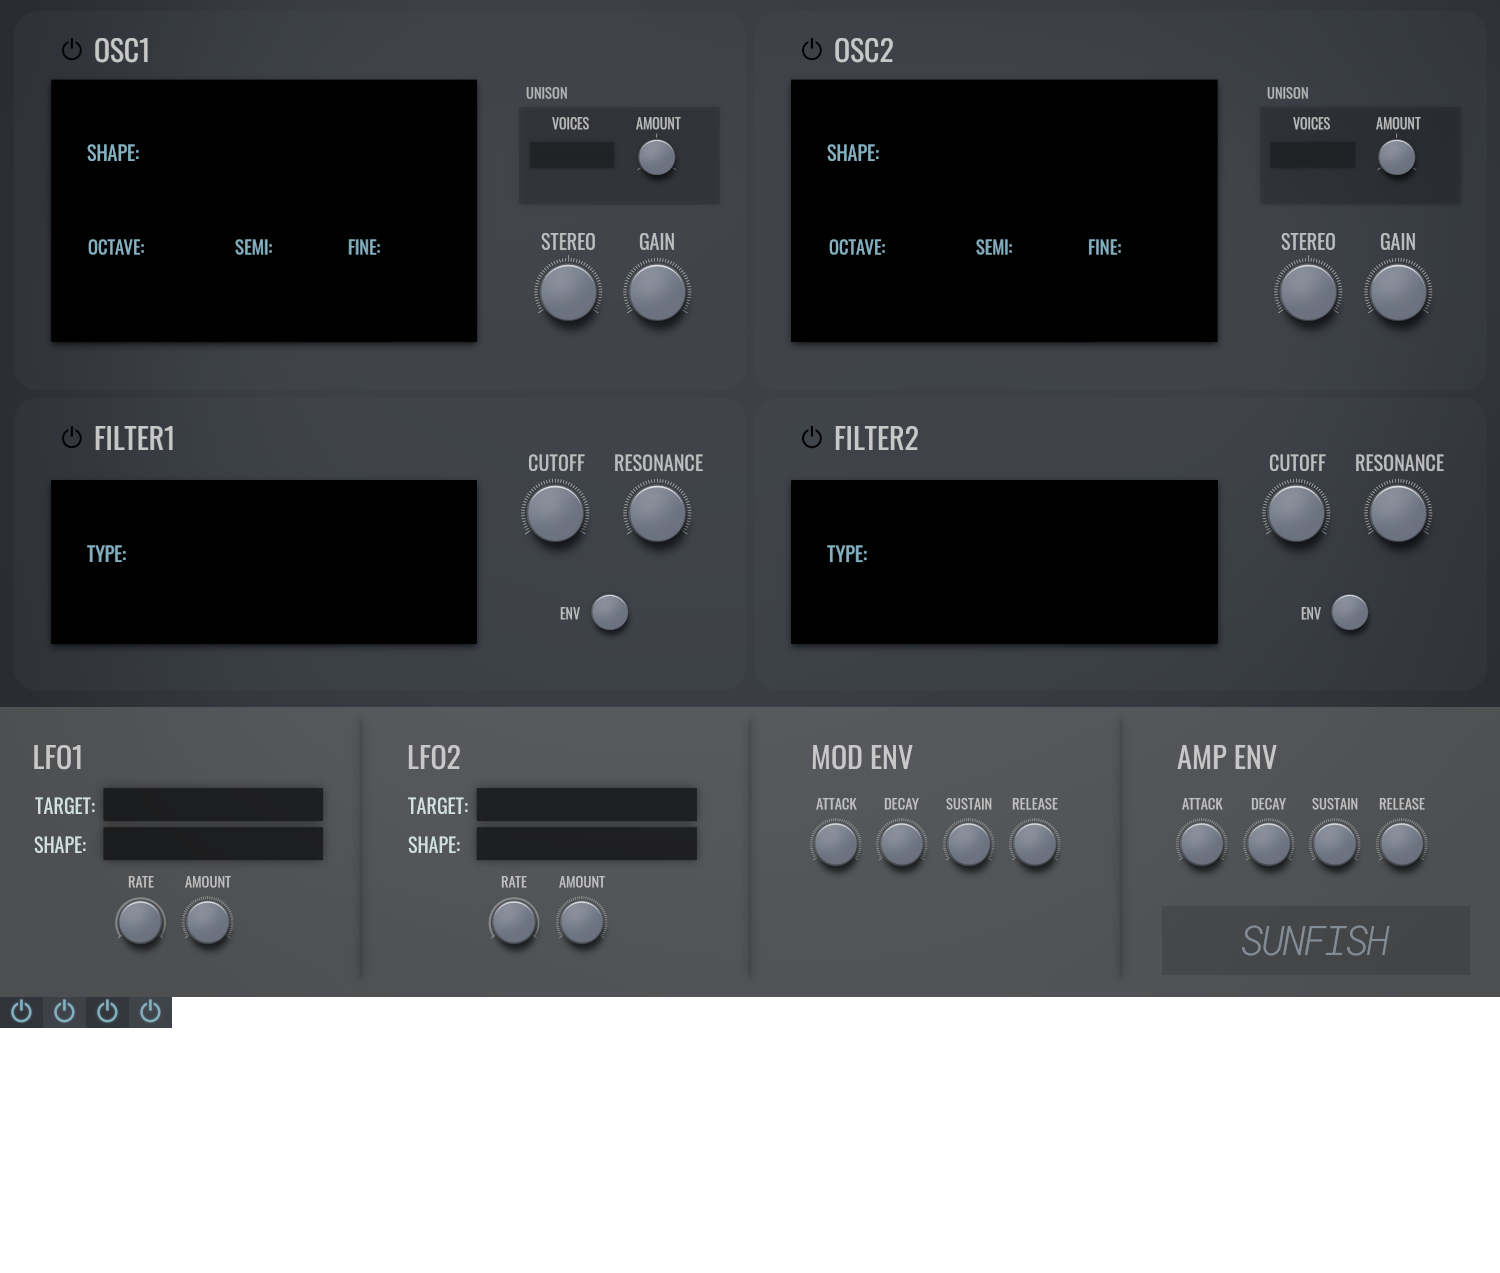
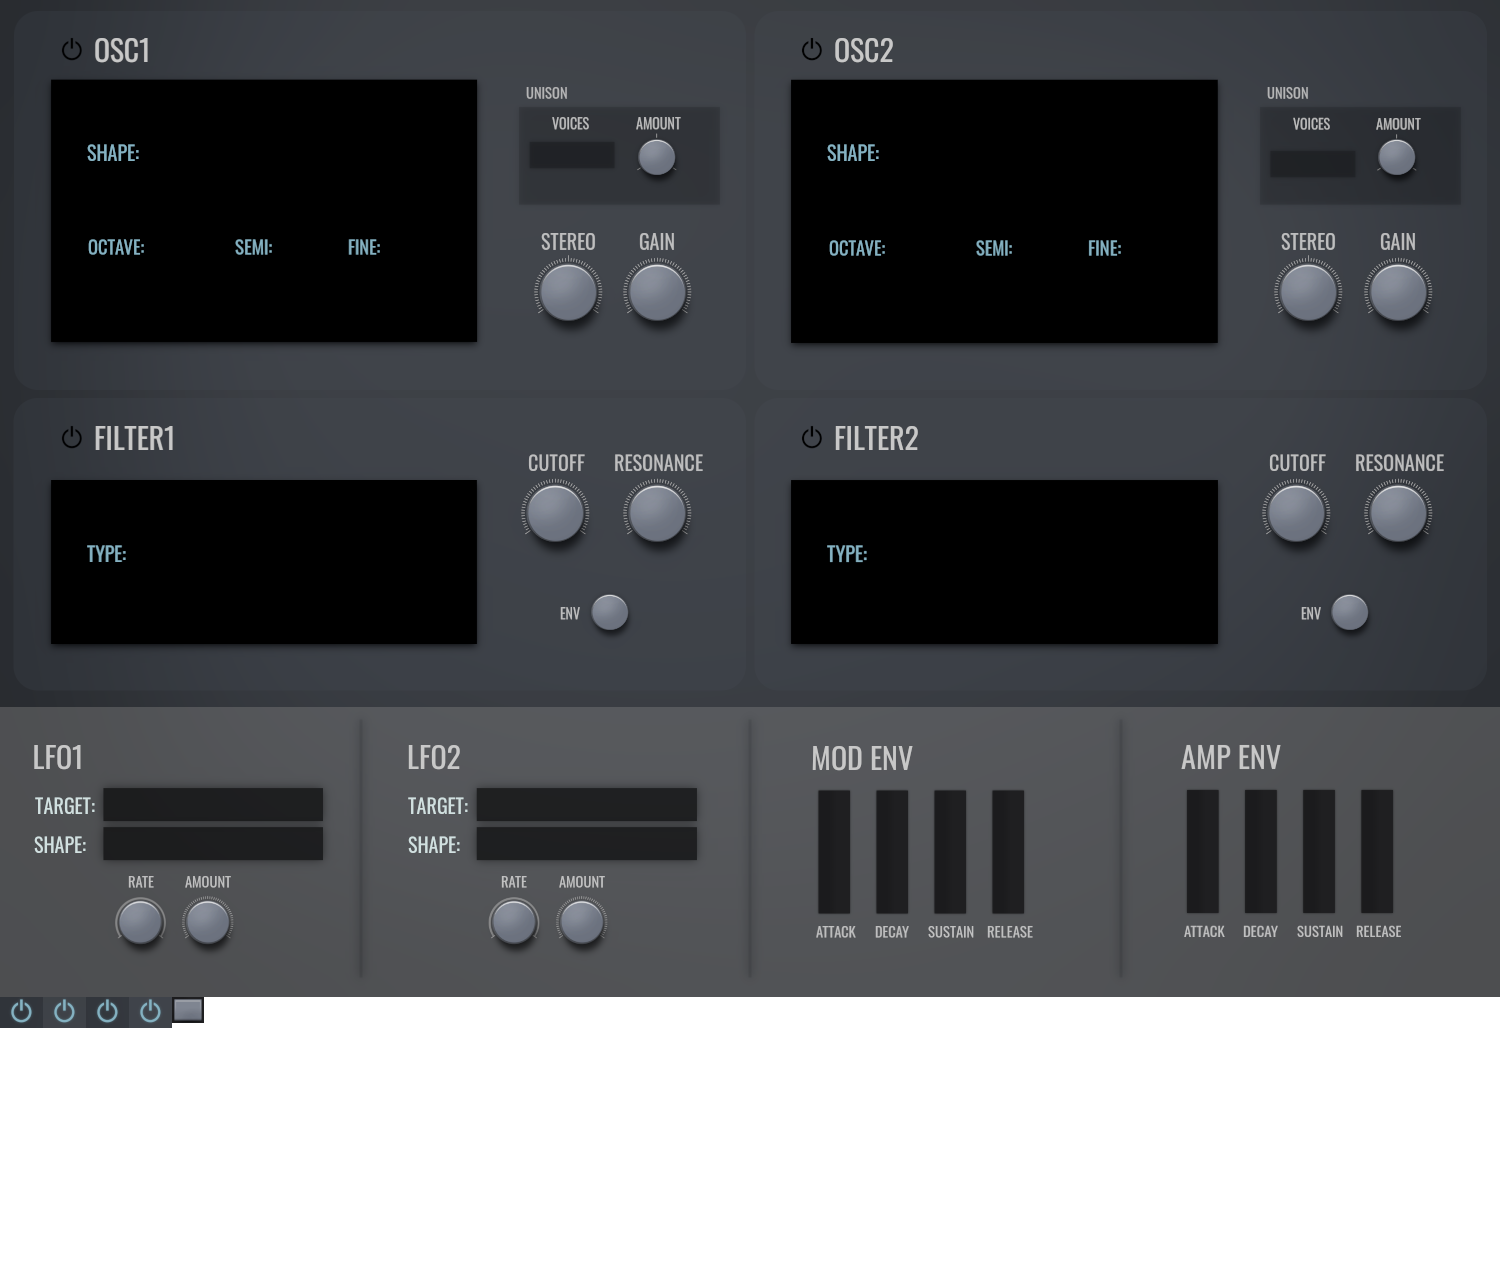
Add thumb sprite support and replace ADSR knobs with sliders (#27)
Add a graphical thumb and vertical sliders for ADSR parameters.

diff --git a/sunfish-core/src/ui/widgets.rs b/sunfish-core/src/ui/widgets.rs
@@ -17,6 +17,11 @@ const DEFAULT_TEXT_COLOR: Color = Color {
     b: 0.0,
 };
 
+const KNOB_DEBUG_OUTLINE: bool = false;
+const KNOB_DEBUG_OUTLINE_COLOR: [f32; 3] = [1.0, 0.0, 0.0];
+const VSLIDER_DEBUG_OUTLINE: bool = false;
+const VSLIDER_DEBUG_OUTLINE_COLOR: [f32; 3] = [1.0, 0.0, 0.0];
+
 #[allow(dead_code)]
 const TOGGLE_OUTLINE_COLOR: [f32; 3] = [1.0, 0.0, 0.0];
 
@@ -107,7 +112,7 @@ impl Widget {
         match &self.wt {
             WidgetClass::Knob(knob) => knob.apply_to_texts(f),
             WidgetClass::Spinner(spinner) => spinner.apply_to_texts(f),
-            WidgetClass::VSlider(_vslider) => { /* TODO */ }
+            WidgetClass::VSlider(vslider) => vslider.apply_to_texts(f),
             WidgetClass::Panel(_panel) => { /* TODO */ }
             WidgetClass::Toggle(toggle) => toggle.apply_to_texts(f),
         }
@@ -263,8 +268,6 @@ pub enum WidgetClass {
     Toggle(Toggle),
 }
 
-const KNOB_DEBUG_OUTLINE: bool = false;
-const KNOB_DEBUG_OUTLINE_COLOR: [f32; 3] = [1.0, 0.0, 0.0];
 const KNOB_OUTLINE_WIDTH: f32 = 0.001;
 const KNOB_ARC_WIDTH: f32 = 0.001;
 
@@ -534,27 +537,50 @@ impl Knob {
     }
 }
 
-const VSLIDER_OUTLINE_COLOR: [f32; 3] = [1.0, 1.0, 1.0];
-
 #[derive(Debug)]
 pub struct VSlider {
     outer_shape_index: ShapeIndex,
     thumb_index: ShapeIndex,
     thumb_size: Coord2,
+    sprite_info: Option<VSliderSprite>,
+    thumb_sprite_index: Option<SpriteIndex>,
+    value_text: Text,
+    value_text_color: Color,
+}
+
+#[derive(Clone, Debug, Deserialize)]
+pub struct VSliderSprite {
+    active: Rect,
 }
 
 impl VSlider {
     #[allow(clippy::new_without_default)]
-    pub fn new() -> Self {
+    pub fn new(
+        sprite_info: Option<VSliderSprite>,
+        value_text: Text,
+        value_text_color: Color,
+    ) -> Self {
         VSlider {
             outer_shape_index: ShapeIndex(0),
             thumb_index: ShapeIndex(0),
             thumb_size: Coord2::new(0.02, 0.02),
+            sprite_info,
+            thumb_sprite_index: None,
+            value_text,
+            value_text_color,
         }
     }
 
-    pub fn new_widget(meta: Arc<ParamsMeta>, id: WidgetId, rect: Rect, value: f64) -> Widget {
-        let vslider = Self::new();
+    pub fn new_widget(
+        meta: Arc<ParamsMeta>,
+        id: WidgetId,
+        rect: Rect,
+        value: f64,
+        sprite_info: Option<VSliderSprite>,
+        value_text: Text,
+        value_text_color: Color,
+    ) -> Widget {
+        let vslider = Self::new(sprite_info, value_text, value_text_color);
         Widget::new(meta, id, rect, value, WidgetClass::VSlider(vslider))
     }
 
@@ -563,36 +589,51 @@ impl VSlider {
         rect: &Rect,
         screen_metrics: &shapes::ScreenMetrics,
         value: f64,
-        _spritesheet: &mut sprites::SpriteSheet,
+        spritesheet: &mut sprites::SpriteSheet,
         shapes: &mut shapes::Shapes,
     ) {
-        let buffers =
-            shapes::rectangle_outline(rect, screen_metrics, 0.001, &VSLIDER_OUTLINE_COLOR);
-        let max_v_count = buffers.vertices.len();
-        let max_i_count = buffers.indices.len();
-        let outer_shape_index =
-            shapes.add(shapes::Shape::from_lyon(buffers, max_v_count, max_i_count));
+        if VSLIDER_DEBUG_OUTLINE {
+            let buffers = shapes::rectangle_outline(
+                rect,
+                screen_metrics,
+                0.001,
+                &VSLIDER_DEBUG_OUTLINE_COLOR,
+            );
+            let max_v_count = buffers.vertices.len();
+            let max_i_count = buffers.indices.len();
+            let outer_shape_index =
+                shapes.add(shapes::Shape::from_lyon(buffers, max_v_count, max_i_count));
+            self.outer_shape_index = ShapeIndex(outer_shape_index);
+        }
+        let thumb_rect = Self::thumb_rect(rect, &self.thumb_size, value);
+        if let Some(sprite_info) = &self.sprite_info {
+            self.thumb_sprite_index = Some(SpriteIndex(spritesheet.add(sprites::Sprite {
+                pos: UserVec2::Rel(Vec2 {
+                    pos: [thumb_rect.pos[0], thumb_rect.pos[1]],
+                }),
+                size: UserVec2::Rel(Vec2 {
+                    pos: thumb_rect.size(),
+                }),
+                src_px: sprites::SpriteSource {
+                    src_rect: sprite_info.active.pos,
+                },
+            })));
+        } else {
+            // TODO: Value computation
+            let buffers = shapes::rectangle_solid(&thumb_rect, screen_metrics);
+            let max_v_count = buffers.vertices.len();
+            let max_i_count = buffers.indices.len();
+            let thumb_index =
+                shapes.add(shapes::Shape::from_lyon(buffers, max_v_count, max_i_count));
 
-        // TODO: Value computation
-        let buffers = Self::create_thumb(rect, screen_metrics, &self.thumb_size, value);
-        let max_v_count = buffers.vertices.len();
-        let max_i_count = buffers.indices.len();
-        let thumb_index = shapes.add(shapes::Shape::from_lyon(buffers, max_v_count, max_i_count));
-
-        self.outer_shape_index = ShapeIndex(outer_shape_index);
-        self.thumb_index = ShapeIndex(thumb_index);
+            self.thumb_index = ShapeIndex(thumb_index);
+        }
     }
 
-    fn create_thumb(
-        rect: &Rect,
-        screen_metrics: &shapes::ScreenMetrics,
-        thumb_size: &Coord2,
-        value: f64,
-    ) -> shapes::Buffers {
+    fn thumb_rect(rect: &Rect, thumb_size: &Coord2, value: f64) -> Rect {
         let thumb_dist = rect.height() - thumb_size.y;
         let thumb_top = ((1.0 - value as f32) * thumb_dist) + rect.y1();
-        let thumb_rect = Rect::new(rect.x1(), thumb_top, rect.x2(), thumb_top + thumb_size.y);
-        shapes::rectangle_solid(&thumb_rect, screen_metrics)
+        Rect::new(rect.x1(), thumb_top, rect.x2(), thumb_top + thumb_size.y)
     }
 
     #[inline(always)]
@@ -613,20 +654,48 @@ impl VSlider {
     }
 
     fn update(&mut self, ctx: &mut UpdateContext, value: f64) {
-        let buf = Self::create_thumb(ctx.rect, ctx.screen_metrics, &self.thumb_size, value);
-        ctx.shapes
-            .update(self.thumb_index.0, &buf.vertices, &buf.indices);
+        let thumb_rect = Self::thumb_rect(ctx.rect, &self.thumb_size, value);
+        if self.sprite_info.is_some() {
+            ctx.spritesheet.update_sprite(
+                self.thumb_sprite_index.unwrap().0,
+                &sprites::SpriteUpdate {
+                    pos: Some(UserVec2::Rel(Vec2 {
+                        pos: [thumb_rect.pos[0], thumb_rect.pos[1]],
+                    })),
+                    ..Default::default()
+                },
+            );
+        } else {
+            let buf = shapes::rectangle_solid(&thumb_rect, ctx.screen_metrics);
+            ctx.shapes
+                .update(self.thumb_index.0, &buf.vertices, &buf.indices);
+        }
+
+        // Update value label.
+        if let WidgetId::Bound { eparam } = ctx.id {
+            self.value_text.value = ctx.params.formatted_value(*eparam);
+        }
     }
 
     fn on_resize(&mut self, ctx: &mut UpdateContext, value: f64) {
         self.update(ctx, value);
-        let buffers =
-            shapes::rectangle_outline(ctx.rect, ctx.screen_metrics, 0.001, &VSLIDER_OUTLINE_COLOR);
-        ctx.shapes.update(
-            self.outer_shape_index.0,
-            &buffers.vertices,
-            &buffers.indices,
-        );
+        if VSLIDER_DEBUG_OUTLINE {
+            let buffers = shapes::rectangle_outline(
+                ctx.rect,
+                ctx.screen_metrics,
+                0.001,
+                &VSLIDER_DEBUG_OUTLINE_COLOR,
+            );
+            ctx.shapes.update(
+                self.outer_shape_index.0,
+                &buffers.vertices,
+                &buffers.indices,
+            );
+        }
+    }
+
+    pub fn apply_to_texts<F: FnMut(&Text, &Color)>(&self, mut f: F) {
+        f(&self.value_text, &self.value_text_color);
     }
 }
 

diff --git a/assets/skin_generator/skin_generator.py b/assets/skin_generator/skin_generator.py
@@ -37,6 +37,9 @@ KN_VALUE_FONT_SCALE = 0.013
 KN_VALUE_COLOR = "Color(r: 0.30039, g: 0.30039, b: 0.3019)"
 KN_DEF_VALUE_POS = "Below(offset_relative: Some(0.006))"
 
+# Sliders
+SL_DEF_VALUE_POS = "Below(offset_relative: Some(0.019))"
+
 BACKGROUND_UNSCALED = (40, 50, 64)
 
 BACKGROUND_COLOR = (float(c) / 256.0 for c in BACKGROUND_UNSCALED)
@@ -287,11 +290,13 @@ def create_lfo_panel(screen: ScreenMetrics, out: TextIO, lfo: int) -> None:
 
 
 def create_adsr_panel(screen: ScreenMetrics, out: TextIO, adsr: int) -> None:
-    x_offset = 367 * (adsr - 1)
-    attack_rect = Rect.from_offset(x_offset + 813, 822, 45, 45)
-    decay_rect = Rect.from_offset(x_offset + 880, 822, 45, 45)
-    sustain_rect = Rect.from_offset(x_offset + 946, 822, 45, 45)
-    release_rect = Rect.from_offset(x_offset + 1013, 822, 45, 45)
+    x_offset = 369 * (adsr - 1)
+    attack_rect = Rect.from_offset(x_offset + 818, 790, 32, 123)
+    decay_rect = Rect.from_offset(x_offset + 876, 790, 32, 123)
+    sustain_rect = Rect.from_offset(x_offset + 934, 790, 32, 123)
+    release_rect = Rect.from_offset(x_offset + 992, 790, 32, 123)
+
+    thumb_sprite = Rect.from_offset(172, 997, 32, 26)
 
     name = "Mod" if adsr == 1 else "Amp"
 
@@ -302,40 +307,32 @@ def create_adsr_panel(screen: ScreenMetrics, out: TextIO, adsr: int) -> None:
     out.write(
         f"""
             // ADSR {name} Panel
-            Knob(
+            VSlider(
                 widget_id: Bound(eparam: {name}Env(Attack)),
                 rect: {emit(attack_rect)},
-                arc_color: {KN_STD_ARC_COLOR},
-                notch_color: {KN_LIGHT_NOTCH_COLOR},
-                label: None,
-                value_text: Text(pos: {KN_DEF_VALUE_POS}, value: "", scale: {KN_VALUE_FONT_SCALE}),
+                sprite: Some(VSliderSprite(active: {thumb_sprite.to_str()})),
+                value_text: Text(pos: {SL_DEF_VALUE_POS}, value: "", scale: {KN_VALUE_FONT_SCALE}),
                 value_text_color: {KN_VALUE_COLOR},
             ),
-            Knob(
+            VSlider(
                 widget_id: Bound(eparam: {name}Env(Decay)),
                 rect: {emit(decay_rect)},
-                arc_color: {KN_STD_ARC_COLOR},
-                notch_color: {KN_LIGHT_NOTCH_COLOR},
-                label: None,
-                value_text: Text(pos: {KN_DEF_VALUE_POS}, value: "", scale: {KN_VALUE_FONT_SCALE}),
+                sprite: Some(VSliderSprite(active: {thumb_sprite.to_str()})),
+                value_text: Text(pos: {SL_DEF_VALUE_POS}, value: "", scale: {KN_VALUE_FONT_SCALE}),
                 value_text_color: {KN_VALUE_COLOR},
             ),
-            Knob(
+            VSlider(
                 widget_id: Bound(eparam: {name}Env(Sustain)),
                 rect: {emit(sustain_rect)},
-                arc_color: {KN_STD_ARC_COLOR},
-                notch_color: {KN_LIGHT_NOTCH_COLOR},
-                label: None,
-                value_text: Text(pos: {KN_DEF_VALUE_POS}, value: "", scale: {KN_VALUE_FONT_SCALE}),
+                sprite: Some(VSliderSprite(active: {thumb_sprite.to_str()})),
+                value_text: Text(pos: {SL_DEF_VALUE_POS}, value: "", scale: {KN_VALUE_FONT_SCALE}),
                 value_text_color: {KN_VALUE_COLOR},
             ),
-            Knob(
+            VSlider(
                 widget_id: Bound(eparam: {name}Env(Release)),
                 rect: {emit(release_rect)},
-                arc_color: {KN_STD_ARC_COLOR},
-                notch_color: {KN_LIGHT_NOTCH_COLOR},
-                label: None,
-                value_text: Text(pos: {KN_DEF_VALUE_POS}, value: "", scale: {KN_VALUE_FONT_SCALE}),
+                sprite: Some(VSliderSprite(active: {thumb_sprite.to_str()})),
+                value_text: Text(pos: {SL_DEF_VALUE_POS}, value: "", scale: {KN_VALUE_FONT_SCALE}),
                 value_text_color: {KN_VALUE_COLOR},
             ),
             """

diff --git a/sunfish-core/src/ui/styling.rs b/sunfish-core/src/ui/styling.rs
@@ -32,12 +32,15 @@ pub enum Element {
         notch_color: Color,
         label: Option<widgets::Text>,
         value_text: widgets::Text,
-        polarity: Option<Polarity>,
         value_text_color: Color,
+        polarity: Option<Polarity>,
     },
     VSlider {
         widget_id: widgets::WidgetId,
         rect: Rect,
+        sprite: Option<widgets::VSliderSprite>,
+        value_text: widgets::Text,
+        value_text_color: Color,
     },
     Spinner {
         widget_id: widgets::WidgetId,
@@ -93,8 +96,8 @@ pub fn create_widgets(def: &Styling, meta: Arc<ParamsMeta>) -> Vec<widgets::Widg
                 notch_color,
                 label,
                 value_text,
-                polarity,
                 value_text_color,
+                polarity,
             } => {
                 widgets.push(widgets::Knob::new_widget(
                     Arc::clone(&meta),
@@ -155,12 +158,21 @@ pub fn create_widgets(def: &Styling, meta: Arc<ParamsMeta>) -> Vec<widgets::Widg
                     sprite.clone(),
                 ));
             }
-            Element::VSlider { widget_id, rect } => {
+            Element::VSlider {
+                widget_id,
+                rect,
+                sprite,
+                value_text,
+                value_text_color,
+            } => {
                 widgets.push(widgets::VSlider::new_widget(
                     Arc::clone(&meta),
                     *widget_id,
                     rect.clone(),
                     0.0,
+                    sprite.clone(),
+                    value_text.clone(),
+                    value_text_color.clone(),
                 ));
             }
         }
